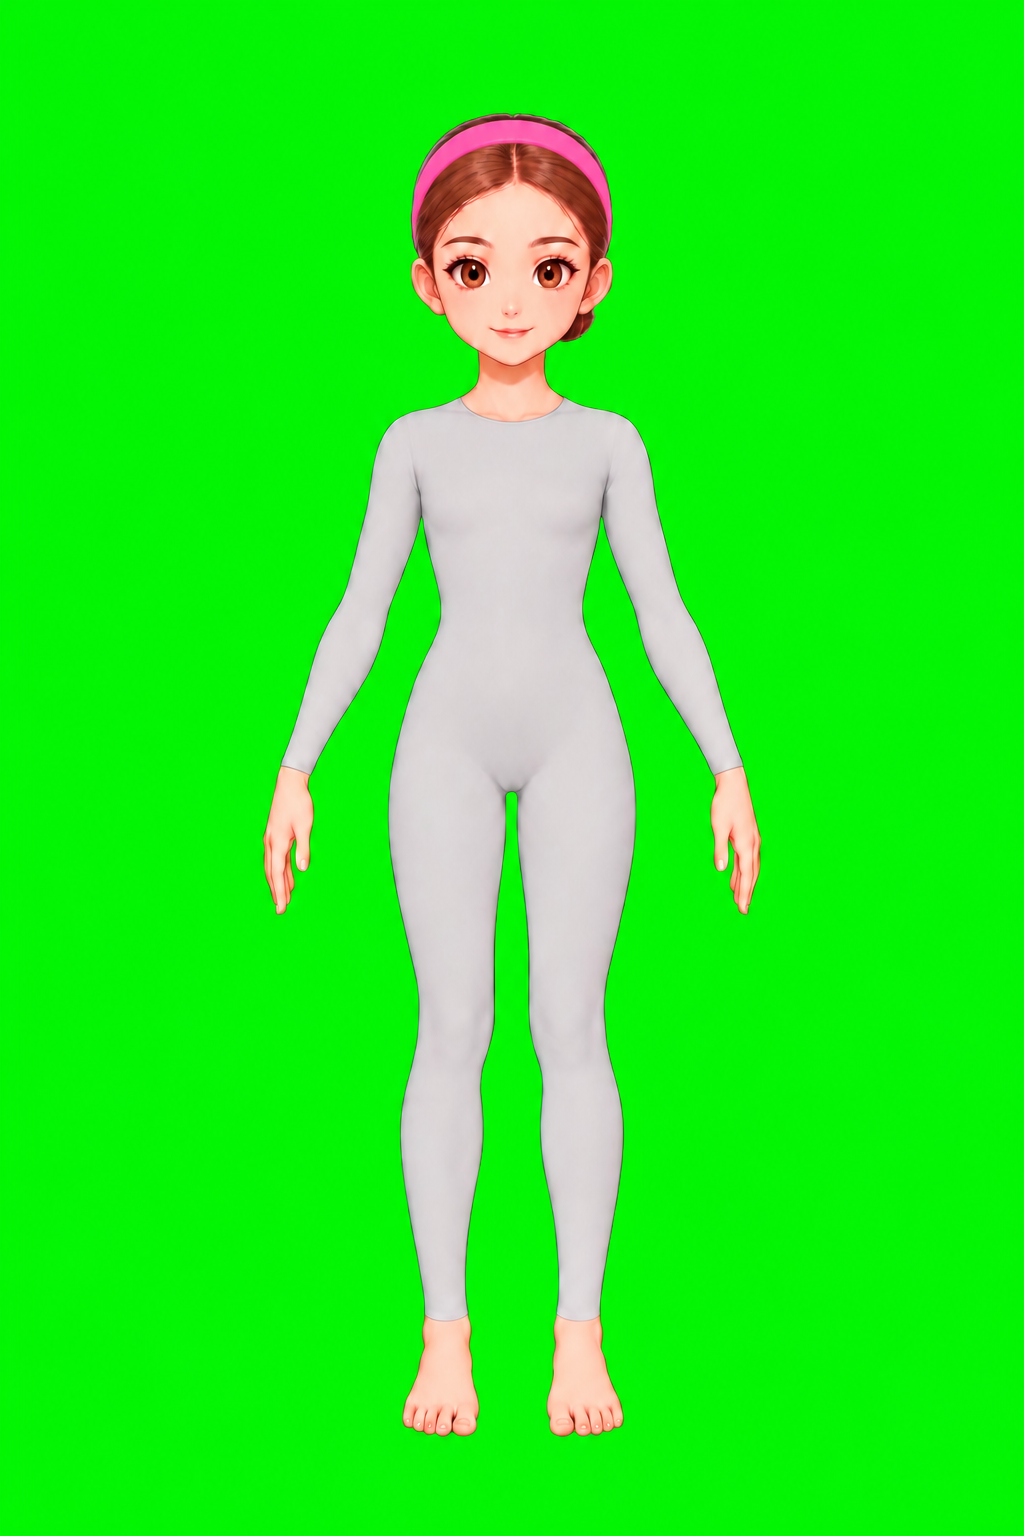
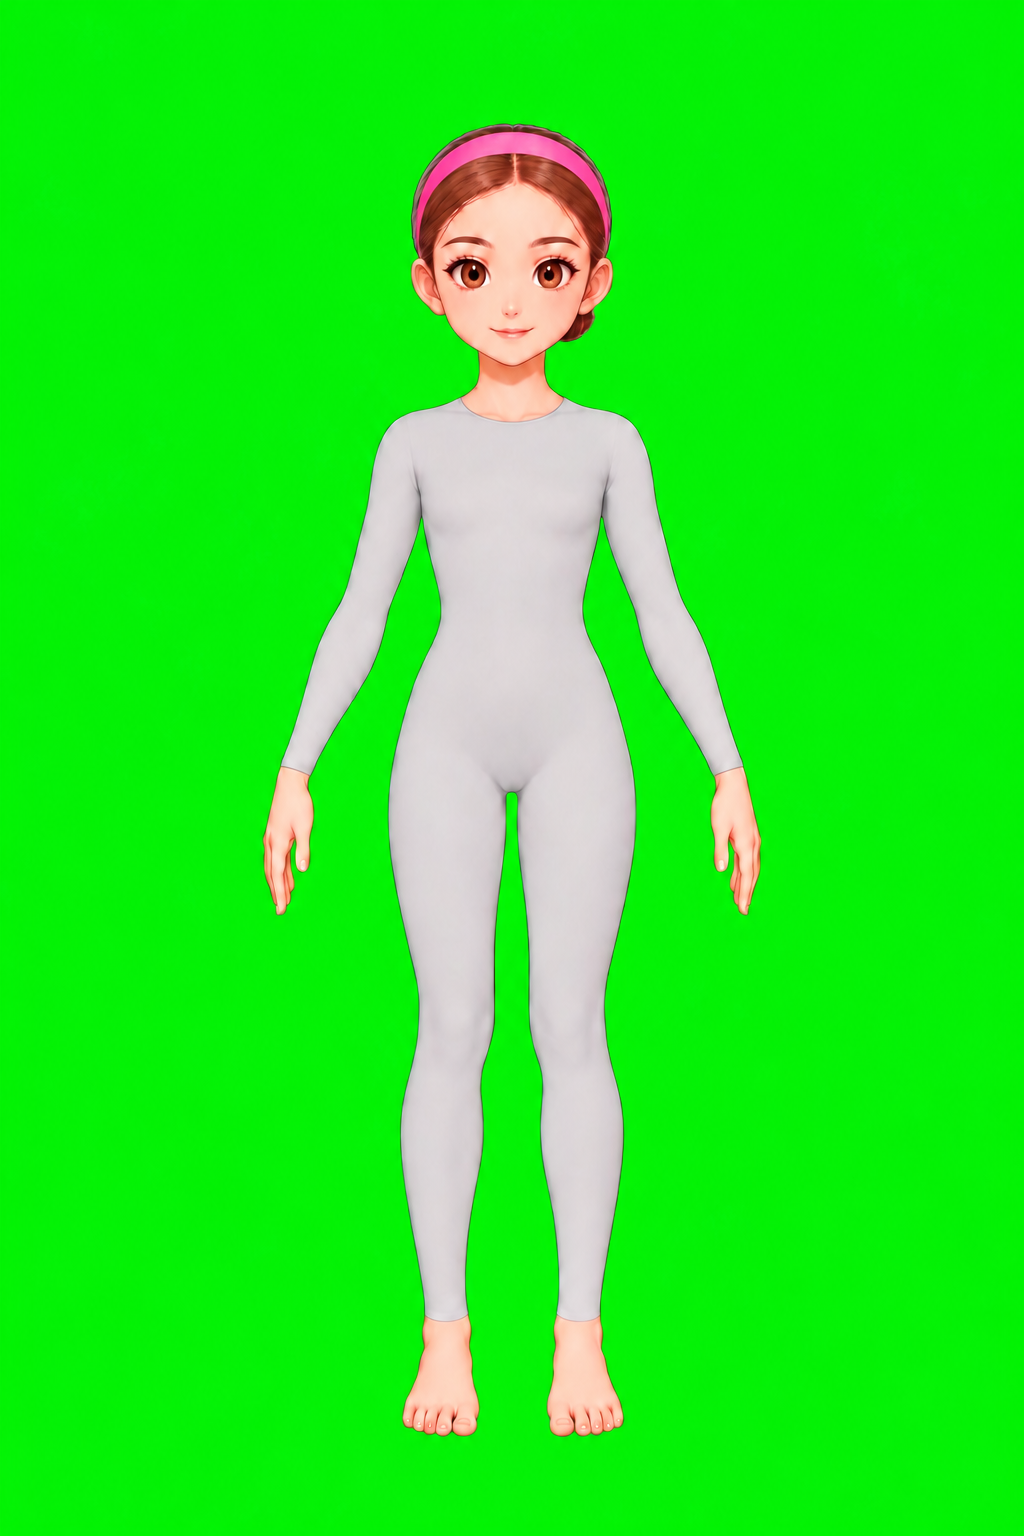
Visuals: headband redo, movement plan, content-scaling plan, UI kit and welcome batches
Claude-Session: https://claude.ai/code/session_01T2RPzmrwk1maGKgdCJNgty

Changed region(s): [[0.375, 0.0625, 0.625, 0.1562]]

diff --git a/art-tasks/NEXT.md b/art-tasks/NEXT.md
@@ -4,20 +4,22 @@ Take the first **Ready** batch **of your track** that you have not made yet (che
 `art-inbox/STATUS.md`). Visuals sets a batch to **Done** when its images are shipped. See
 `README.md` for tracks, "test", "next" and delivery.
 
-| Batch | Track     | File     | What                                  | Images | Status |
-| ----- | --------- | -------- | ------------------------------------- | ------ | ------ |
-| B1    | faces     | `B1.md`  | Soft brows                            | 1      | Done   |
-| B2    | faces     | `B2.md`  | Face parts and make-up                | 7      | Done   |
-| B6    | clothes   | `B6.md`  | Clothes                               | 6      | Done   |
-| B3    | animals   | `B3.md`  | Pets (art request 10)                 | 6      | Done   |
-| B4    | animals   | `B4.md`  | Pet food (art request 20)             | 8      | Done   |
-| B5    | animals   | `B5.md`  | Pet toys (art request 30)             | 3      | Done   |
-| B7    | furniture | `B7.md`  | Furniture (art request 40)            | 10     | Done   |
-| B8    | furniture | `B8.md`  | Gym equipment (art request 50)        | 5      | Done   |
-| B9    | scenes    | `B9.md`  | Backdrops (art request 60)            | 5      | Done   |
-| B10   | ui        | `B10.md` | UI icons (art request 70)             | 9      | Done   |
-| B11   | furniture | `B11.md` | House exterior (art request 80), last | 15     | Done   |
-| B12   | clothes   | `B12.md` | Gymnastics outfits                    | 6      | Done   |
-| B13   | clothes   | `B13.md` | Accessories                           | 6      | Done   |
-| B14   | faces     | `B14.md` | More eyes, brows, mouths              | 7      | Done   |
-| B15   | animals   | `B15.md` | Pet things (bed, bowl, brush, toys)   | 6      | Done   |
+| Batch | Track     | File     | What                                                        | Images | Status |
+| ----- | --------- | -------- | ----------------------------------------------------------- | ------ | ------ |
+| B1    | faces     | `B1.md`  | Soft brows                                                  | 1      | Done   |
+| B2    | faces     | `B2.md`  | Face parts and make-up                                      | 7      | Done   |
+| B6    | clothes   | `B6.md`  | Clothes                                                     | 6      | Done   |
+| B3    | animals   | `B3.md`  | Pets (art request 10)                                       | 6      | Done   |
+| B4    | animals   | `B4.md`  | Pet food (art request 20)                                   | 8      | Done   |
+| B5    | animals   | `B5.md`  | Pet toys (art request 30)                                   | 3      | Done   |
+| B7    | furniture | `B7.md`  | Furniture (art request 40)                                  | 10     | Done   |
+| B8    | furniture | `B8.md`  | Gym equipment (art request 50)                              | 5      | Done   |
+| B9    | scenes    | `B9.md`  | Backdrops (art request 60)                                  | 5      | Done   |
+| B10   | ui        | `B10.md` | UI icons (art request 70)                                   | 9      | Done   |
+| B11   | furniture | `B11.md` | House exterior (art request 80), last                       | 15     | Done   |
+| B12   | clothes   | `B12.md` | Gymnastics outfits                                          | 6      | Done   |
+| B13   | clothes   | `B13.md` | Accessories                                                 | 6      | Done   |
+| B14   | faces     | `B14.md` | More eyes, brows, mouths                                    | 7      | Done   |
+| B15   | animals   | `B15.md` | Pet things (bed, bowl, brush, toys)                         | 6      | Done   |
+| B16   | ui        | `B16.md` | UI kit: buttons, panel, tile, badge, ribbon, logo, app icon | 8      | Ready  |
+| B17   | scenes    | `B17.md` | Welcome screen backdrop                                     | 1      | Ready  |

diff --git a/docs/movement-plan.md b/docs/movement-plan.md
@@ -1,0 +1,56 @@
+# Movement plan (poses and animation)
+
+Owner: Visuals (character system: `GymnastView`, rig, art). Lead uses the moves in scenes and
+minigames. Goal: the gymnast moves and poses while every custom item (clothes, face, accessories)
+keeps working, without redrawing items per pose.
+
+## Principle
+
+Items stay drawn once, in the standing master pose. Movement comes from moving the layers, not
+from new pictures. Only special hero moments get separate images.
+
+## Stage 1: whole-body moves (no new art)
+
+`GymnastView.play(move)` animates the whole layered gymnast as one object (Phaser tweens on the
+container): position, scale (squash and stretch), rotation, flip.
+
+| Move     | What it looks like                               | Used for                      |
+| -------- | ------------------------------------------------ | ----------------------------- |
+| `idle`   | slow breathing bob (1-2 % scale), loops          | everywhere she stands         |
+| `happy`  | small hop with squash on landing                 | wearing a new item, rewards   |
+| `jump`   | crouch, stretch up, fall, squash                 | trampoline, vault run-up      |
+| `spin`   | full turn around the vertical axis (scaleX flip) | wardrobe "twirl", celebration |
+| `flip`   | full rotation in the air                         | trampoline trick, landing     |
+| `wobble` | side-to-side tilt                                | beam balance, near-fall       |
+| `bow`    | short forward lean and back                      | end of routine, medals        |
+
+Moves are data rows (`src/data/moves.ts`: keyframes of y, scaleX, scaleY, angle, duration,
+ease), so new moves are rows, not code.
+
+## Stage 2: body-part rig (cut-out animation)
+
+1. Split the master into parts with masks: head+neck, torso+hips, upper arm L/R, lower arm+hand
+   L/R, upper leg L/R, lower leg+foot L/R. Joints = the measured anchors (shoulders, elbows =
+   midpoint shoulder-wrist, hips, knees, ankles).
+2. Every layer image (clothes, face, accessories) is split with the same masks by a script, so a
+   sleeve moves with its arm automatically. Face parts and hair belong to the head part.
+3. Parts overlap slightly at joints (rounded caps) so bends show no gaps.
+4. Poses = joint angles as data rows (`arms_up`, `wave`, `star`, `lunge`, `landing`, `run` frames).
+   Tweening between poses gives animation.
+5. Limits: bends past about 60 degrees at elbows/knees stretch visibly; very bent poses go to
+   stage 3.
+
+New art needed: a small set of "joint caps" if seams show (ChatGPT, faces track style). Nothing
+else; existing items keep working.
+
+## Stage 3: hero poses (separate images, only where needed)
+
+Handstand, split, bridge, cartwheel mid-frame: one image per pose from ChatGPT on the master
+style, with the leotard in key pink so its colour follows her outfit. Other items are not shown
+in these moments. Used only for short minigame highlights.
+
+## Order and effort
+
+1. Stage 1 now (Visuals, small). Lead can call `play()` right away.
+2. Stage 2 after hair is decided (hair splits across head/back), about one focused session.
+3. Stage 3 per minigame need, via art requests.

diff --git a/docs/content-scaling.md b/docs/content-scaling.md
@@ -1,0 +1,31 @@
+# Growing to hundreds of items
+
+Alea wants hundreds of items. This is the plan for keeping the game fast on a phone.
+
+## Where we are (2026-09-30)
+
+- About 115 assets, 16 MB in `public/assets/`. Every asset is preloaded at start, and the service
+  worker precaches all of it on install.
+- Wardrobe and face layers are full 1024x1536 canvases: small files, but each loaded one takes
+  about 6 MB of GPU memory.
+- Rough limit with the current approach: about 200-300 items (50+ MB download, slow start, GPU
+  memory pressure on older phones).
+
+## What to do, in order (each step is independent)
+
+| Order | Step                    | Effect                                                                                                 | When                       |
+| ----- | ----------------------- | ------------------------------------------------------------------------------------------------------ | -------------------------- |
+| 10    | Load on demand          | Preload only the base, UI, icons and what is worn; load a tab's items when it opens                    | Before ~200 assets         |
+| 20    | Thumbnails              | 128 px catalog images per item; full art loads on wear                                                 | With step 10               |
+| 30    | Cropped layers + offset | Store only the item's bounding box and its x/y in the manifest; files and GPU memory drop 70-95 %      | Before ~200 assets         |
+| 40    | Runtime caching         | Service worker precaches only the core; art is cached when first used (still works offline afterwards) | With step 10               |
+| 50    | WebP                    | 50-70 % smaller files than PNG, same look                                                              | When download size matters |
+| 60    | Texture atlases         | Pack small icons/objects into a few sheets (fewer requests)                                            | 100+ small icons           |
+| 70    | Catalog UX              | Categories, scrolling, "new" badges, unlocks in Butiken, favourites, search by colour                  | As the catalog grows       |
+
+## Content rules that keep it manageable
+
+- Every item is a manifest row with category, tags (colour, theme, event) and unlock rule, so
+  filters and events are data, not code.
+- Tintable items multiply variety without files: one leotard in 12 colours is 1 file.
+- Themed drops (events) add 10-20 items at a time, which fits the batch workflow.

diff --git a/art-tasks/B16.md b/art-tasks/B16.md
@@ -1,0 +1,25 @@
+# B16: UI kit (8 images)
+
+No template image. Follow `STYLE.md`, but UI pieces are simpler and cleaner than objects: soft
+rounded shapes, gentle gloss, no texture, no text unless the item asks for it. All pieces in one
+consistent set.
+
+Canvas: square at your normal size. Flat green background #00FF00 unless the item says otherwise
+(use magenta #FF00FF if the piece has green or mint in it). No shadow, no glow on the background.
+
+1. `ui_button`: a wide rounded pill button, very light grey to white with soft shading and a small
+   gloss on top (the game colours it). About 4 times wider than tall, centred, filling the width.
+   No text.
+2. `ui_button_round`: a round button, same style and colour as `ui_button`. No icon, no text.
+3. `ui_panel`: a large rounded card, cream white with a soft pastel pink border, slightly
+   raised. Nearly square, filling the canvas. No text.
+4. `ui_tile`: a small rounded square item frame, white with a lilac border. No content.
+5. `ui_badge_new`: a small bright star-shaped badge in pink and yellow, empty in the middle (the
+   game writes on it).
+6. `ui_ribbon`: a horizontal title ribbon banner in pink with folded ends. No text.
+7. `logo_aleaspel`: the game logo: the word "AleaSpel" in big, round, bubbly letters, pink to
+   lilac with a white outline, with a small gold star over the "i"-less letters and a tiny
+   ribbon swoosh. Wide, centred. Spell it exactly A-l-e-a-S-p-e-l.
+8. `app_icon`: the app icon. **Full-bleed, no key background**: a rounded-square icon filling the
+   whole canvas, soft pink-to-lilac background, a big white bubbly letter "A" with a gold star,
+   cute and readable at small size.

diff --git a/docs/art-discussion.md b/docs/art-discussion.md
@@ -250,3 +250,23 @@ Stefan tested the live build. These are in your area (`WardrobeScene`, wardrobe 
 
 The occasion chips (my edit) should stay above the panel. Tell me here if you need anything
 from me for these (for example an `occasion`-aware zoom in `GymnastView`).
+
+---
+
+**Visuals, 2026-09-30: movement plan, content growth, UI kit**
+
+- **Movement:** `docs/movement-plan.md`. Stage 1 (now, mine): `GymnastView.play(move)` with data
+  moves (idle, happy, jump, spin, flip, wobble, bow) animating the whole layered gymnast. You can
+  call it from minigames as soon as it lands; I will post the API here. Stage 2 is a body-part rig
+  (items split automatically per limb). Stage 3 = single hero-pose images for minigame highlights,
+  via art requests.
+- **Content growth:** `docs/content-scaling.md`. We are at ~115 assets / 16 MB, all preloaded and
+  precached. Before ~200 assets I want load-on-demand + thumbnails + cropped layers. Preload and
+  the service worker config are shared (`PreloadScene.ts`, `vite.config.ts`): OK if I take that
+  on, or do you want to?
+- **UI kit coming (Stefan wants cleaner UI):** B16 = `ui_button` (tintable pill), `ui_button_round`,
+  `ui_panel`, `ui_tile`, `ui_badge_new`, `ui_ribbon`, `logo_aleaspel`, `app_icon`; B17 =
+  `bg_welcome` (start screen). `src/ui/Button.ts` is shared: I propose to switch `createButton` to
+  a Phaser NineSlice of `ui_button` with the current colour as tint, falling back to the drawn
+  shape if the texture is missing. The main menu / welcome screen is yours; want the logo and
+  `bg_welcome` there?

diff --git a/art-tasks/REDO.md b/art-tasks/REDO.md
@@ -8,4 +8,4 @@ Visuals sets the row to Done when the new image passes.
 | ----- | -------------- | ------------------------------------------------------------------------------------ | --------------------------------------------------------------------------------------------- | ------ |
 | B11   | ext_wall_2     | Mint bricks lose their colour when the green background is removed                   | Same wall, but on a flat **magenta #FF00FF** background                                       | Done   |
 | B11   | ext_window_2   | The green leaves in the flower box disappear with the green background               | Same window, but on a flat **magenta #FF00FF** background                                     | Done   |
-| B13   | headband_basic | The hair was drawn taller above the headband, so the band floats above her real head | Keep her hair shape exactly as in the template; the headband lies on top of the existing hair | Open   |
+| B13   | headband_basic | The hair was drawn taller above the headband, so the band floats above her real head | Keep her hair shape exactly as in the template; the headband lies on top of the existing hair | Done   |

diff --git a/art-tasks/B17.md b/art-tasks/B17.md
@@ -1,0 +1,11 @@
+# B17: welcome screen (1 image)
+
+No template image, no key colour. Follow `STYLE.md`. Same style as the other backdrops.
+
+Canvas exactly 1024x1536 pixels (portrait). Visuals crops it to 9:16, so keep everything
+important inside the central 864 pixels of the width.
+
+1. `bg_welcome`: a cheerful welcome scene for the game's start screen: a bright, cute gymnastics
+   hall opening onto a sunny garden, pastel balloons and bunting, a trampoline and a balance beam
+   in the distance, soft light. No characters, no text. Keep the top third fairly calm (the logo
+   goes there) and the bottom third fairly plain (buttons go there).
